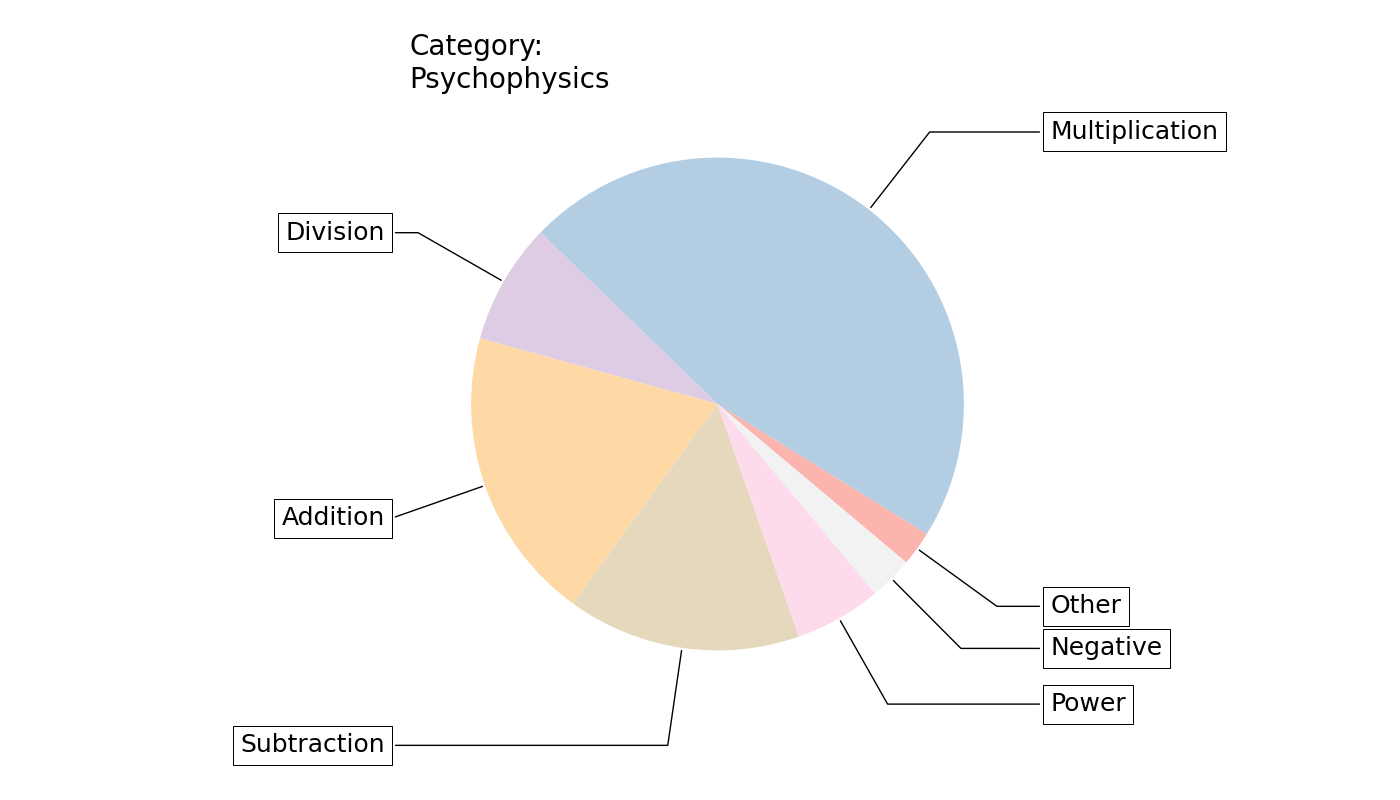
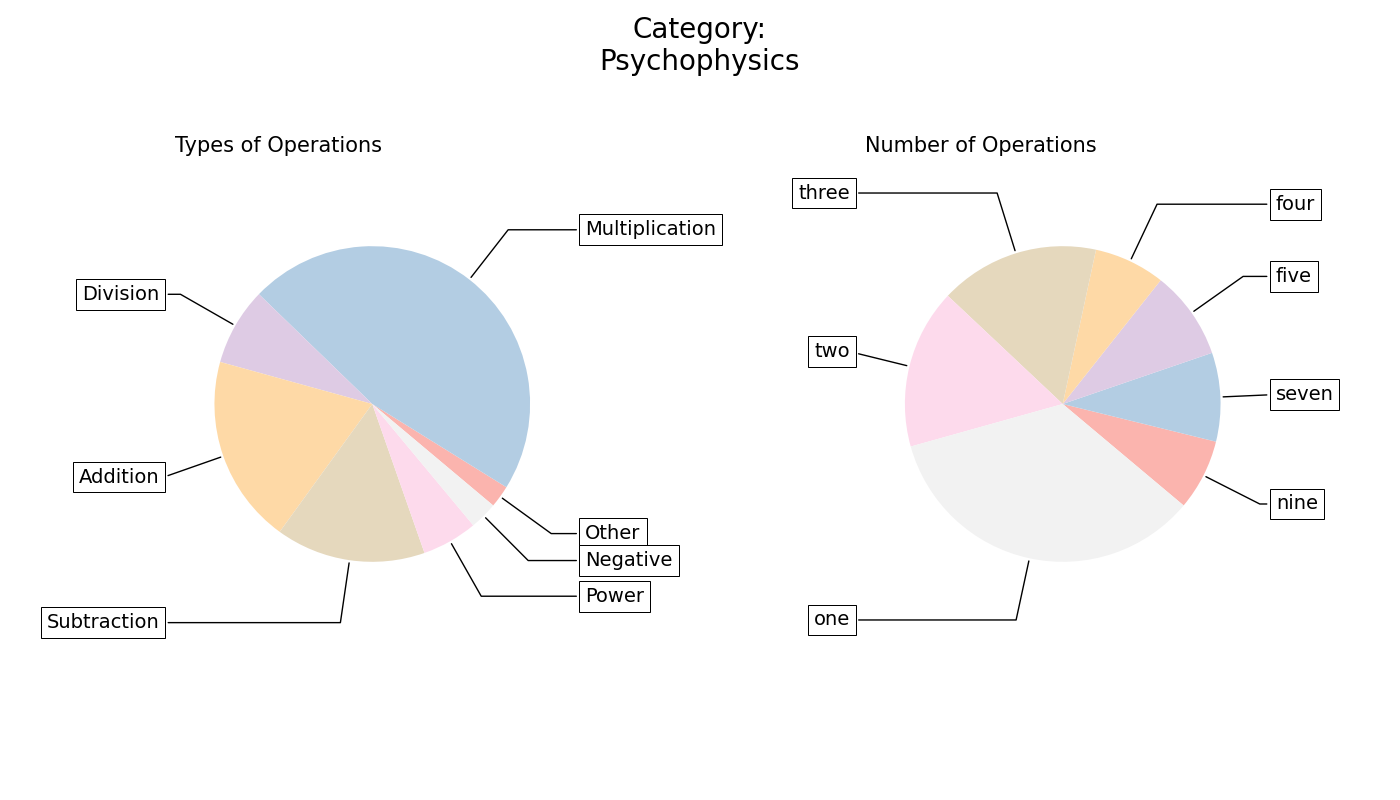
Expanded plotting to include number of operatiosn

diff --git a/autoRA_plotParsedEquations.py b/autoRA_plotParsedEquations.py
@@ -26,6 +26,9 @@ loadName = 'parsed_operations_' + saveKeywords + '.txt' #Create file name
  
 import matplotlib.pyplot as plt
 import numpy as np 
+import collections
+import inflect
+p = inflect.engine()
 
 ###############################################################################
 #2. Load File
@@ -40,6 +43,7 @@ with open('Data/'+loadName,'r') as f:
     
 #Setup Variables
 allOps = {}
+opCounts = []
 #Cycle through each line to extract operation information
 for parsedEq in parsedEqs:
     
@@ -66,6 +70,26 @@ for parsedEq in parsedEqs:
             except:
                 pass #TODO: ADD DEBUG IN CASE CODE REACHES HERE
 
+    #Determine number of operations per equation
+    opCount = 0
+    for ops in parsedOps:
+        opCount += int(ops.split(' ')[-1])
+    opCounts.append(opCount)
+
+#Determine frequency table of number of operators
+opCounter = collections.Counter(opCounts)
+
+#Sort the frequency table
+sortCounter = list(opCounter.keys())
+sortCounter.sort(reverse=True)
+sortedCounter = {i: opCounter[i] for i in sortCounter}
+
+#Change labels to words
+opCounterLabel = dict()
+for opCountKey in sortedCounter.keys():
+    opCounterLabel[p.number_to_words(opCountKey)] = sortedCounter[opCountKey]
+    
+opCounter = opCounterLabel
 
 ###############################################################################
 #4. Reformat operator titles
@@ -128,13 +152,17 @@ if 'LOG' in plotOps:
     del plotOps['LOG']  
     
 ###############################################################################
-#5. Plot as pie chart
+#5. Plot operators as pie chart
 ###############################################################################
+#TODO: Turn this into a function
 
 #Create plot
-fig, ax = plt.subplots(figsize=(14, 8), subplot_kw=dict(aspect="equal")) #Plot formatting
+fig, (ax,ax2) = plt.subplots(1,2,figsize=(14, 8), subplot_kw=dict(aspect="equal")) #Plot formatting
+fig.subplots_adjust(wspace=.75)
+fig.suptitle('Category:\n' + loadName.split('_')[-1].split('.')[0], fontsize = 20)
+
 wedges, texts = ax.pie(plotOps.values(), startangle=-40, colors = plt.get_cmap("Pastel1")(np.linspace(0.0, 1, len(plotOps.keys())))) #Add pie chart
-plt.title('Category:\n' + loadName.split('_')[-1].split('.')[0], loc='left', fontsize = 20) #Add title
+ax.set_title('Types of Operations\n\n', loc='left', fontsize = 15) #Add title
 
 #Move labels outside of the pie chart
 bbox_props = dict(boxstyle="square,pad=0.3", fc="w", ec="k", lw=0.72) #Format label locations
@@ -150,12 +178,38 @@ for i, p in enumerate(wedges): #Cycle through operators
     kw["arrowprops"].update({"connectionstyle": connectionstyle}) #Add line linking label to plot
     #TODO ADJUST THE FOLLOWING - THIS WAS FOR A SPECIFIC PLOT WHERE LABELS OVERLAPPED, BUT INSTEAD THE SCRIPT SHOULD DETECT OVERLAP AND MOVE THESE AUTOMATICALLY
     if (list(plotOps.keys())[i] == 'Derivative') | (list(plotOps.keys())[i] == 'Cosine'):
-        ax.annotate(list(plotOps.keys())[i], xy=(x, y), xytext=(1.8*np.sign(x), 1.4*y), fontsize=18, horizontalalignment=horizontalalignment, **kw) #Add adjusted label to pie chart
+        ax.annotate(list(plotOps.keys())[i], xy=(x, y), xytext=(1.8*np.sign(x), 1.4*y), fontsize=14, horizontalalignment=horizontalalignment, **kw) #Add adjusted label to pie chart
     else: 
-        ax.annotate(list(plotOps.keys())[i], xy=(x, y), xytext=(1.35*np.sign(x), 1.4*y), fontsize=18, horizontalalignment=horizontalalignment, **kw) #Add label to pie chart
+        ax.annotate(list(plotOps.keys())[i], xy=(x, y), xytext=(1.35*np.sign(x), 1.4*y), fontsize=14, horizontalalignment=horizontalalignment, **kw) #Add label to pie chart
 
 ###############################################################################
-#5. Save and plot figure
+#6. Plot operator counts as pie chart
+###############################################################################
+
+#Create plot
+wedges, texts = ax2.pie(opCounter.values(), startangle=-40, colors = plt.get_cmap("Pastel1")(np.linspace(0.0, 1, len(opCounter.keys())))) #Add pie chart
+ax2.set_title('Number of Operations\n\n', loc='left', fontsize = 15) #Add title
+
+#Move labels outside of the pie chart
+bbox_props = dict(boxstyle="square,pad=0.3", fc="w", ec="k", lw=0.72) #Format label locations
+kw = dict(arrowprops=dict(arrowstyle="-"), bbox=bbox_props, zorder=0, va="center") #Determine label formats
+
+#Adjust labels in a cycle
+for i, p in enumerate(wedges): #Cycle through operators
+    ang = (p.theta2 - p.theta1)/2. + p.theta1 #Determine current label location angle
+    y = np.sin(np.deg2rad(ang)) #Determine current label location y
+    x = np.cos(np.deg2rad(ang)) #Determine current label location x
+    horizontalalignment = {-1: "right", 1: "left"}[int(np.sign(x))] #Push label horizontally
+    connectionstyle = "angle,angleA=0,angleB={}".format(ang) #Add line linking label to plot
+    kw["arrowprops"].update({"connectionstyle": connectionstyle}) #Add line linking label to plot
+    #TODO ADJUST THE FOLLOWING - THIS WAS FOR A SPECIFIC PLOT WHERE LABELS OVERLAPPED, BUT INSTEAD THE SCRIPT SHOULD DETECT OVERLAP AND MOVE THESE AUTOMATICALLY
+    if (list(opCounter.keys())[i] == 'Derivative') | (list(opCounter.keys())[i] == 'Cosine'):
+        ax2.annotate(list(opCounter.keys())[i], xy=(x, y), xytext=(1.8*np.sign(x), 1.4*y), fontsize=14, horizontalalignment=horizontalalignment, **kw) #Add adjusted label to pie chart
+    else: 
+        ax2.annotate(list(opCounter.keys())[i], xy=(x, y), xytext=(1.35*np.sign(x), 1.4*y), fontsize=14, horizontalalignment=horizontalalignment, **kw) #Add label to pie chart
+
+###############################################################################
+#7. Save and plot figure
 ###############################################################################
 
 plt.savefig('Figures/'+'_'.join(searchedKeywords)+'_PriorPieChart.png') #Save figure
